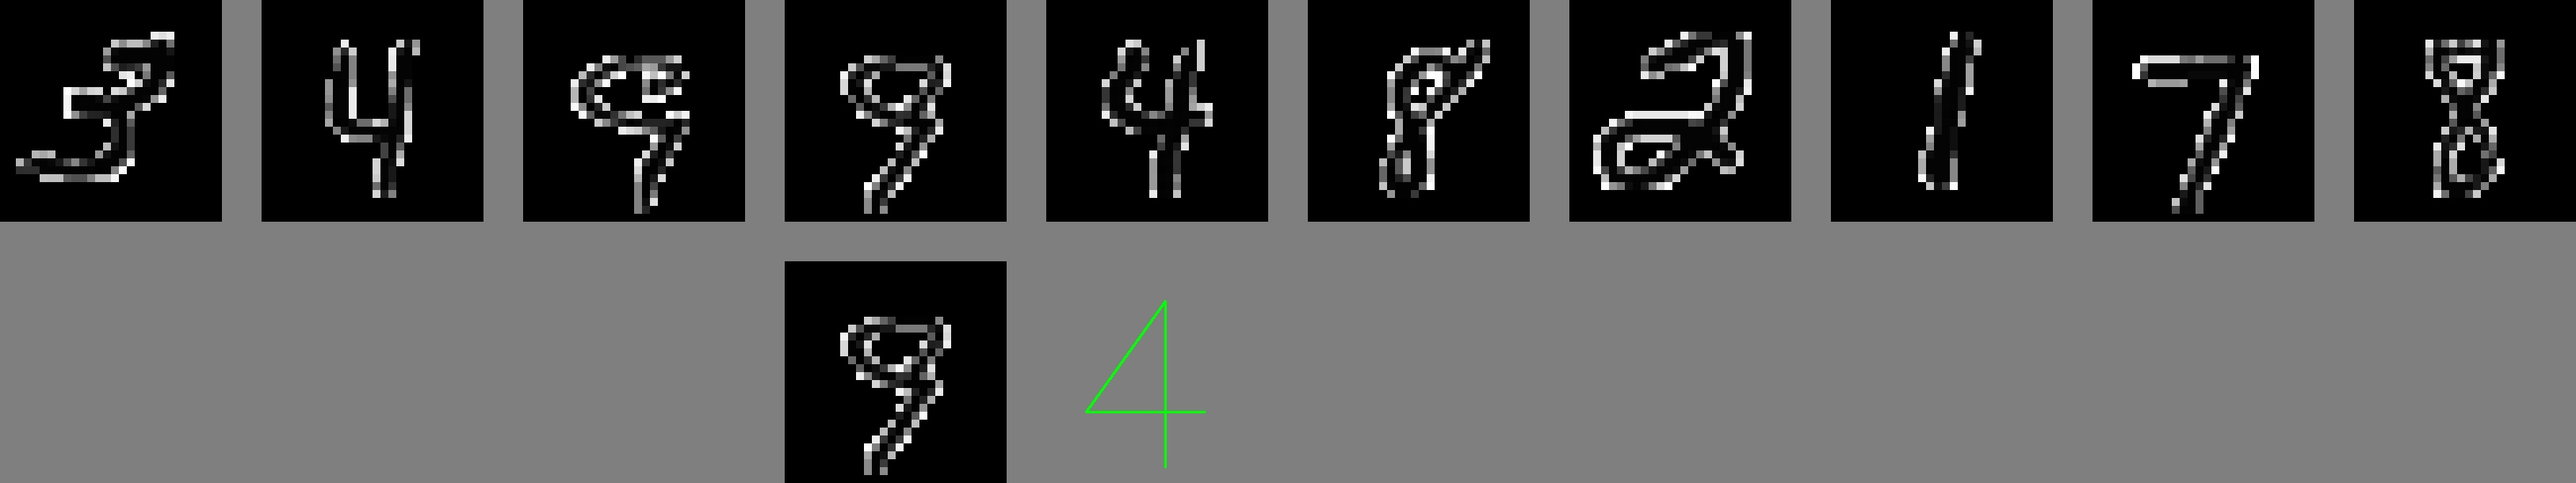
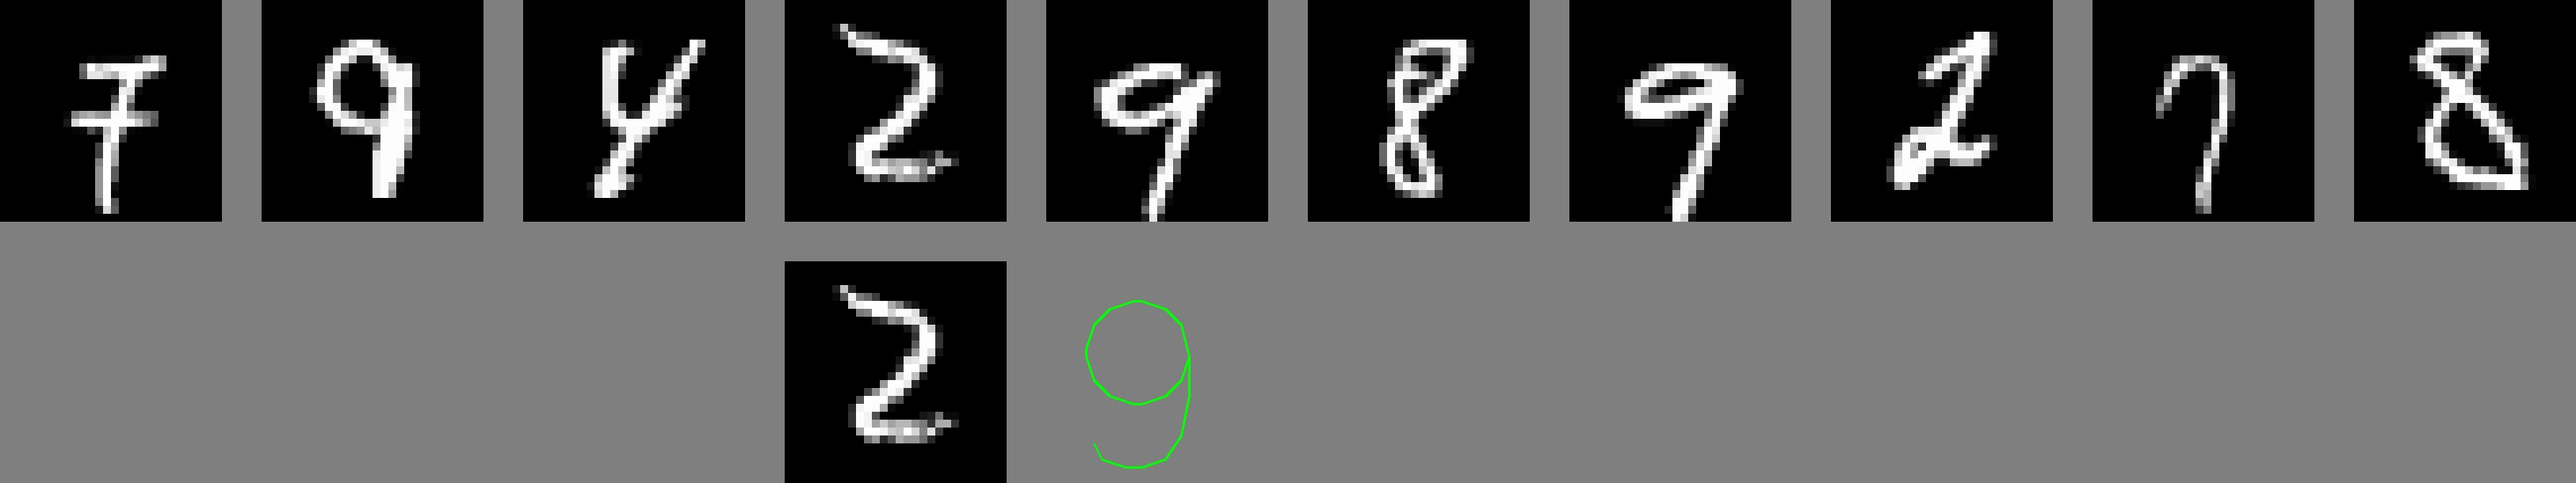
updates mnist visualization and minor changes.

diff --git a/mnist_recall/training_thread.py b/mnist_recall/training_thread.py
@@ -108,13 +108,13 @@ class TrainingThread(object):
       for vis_ind in range(self.batch_size):
           vis_width = 28*num_steps + 5*(num_steps-1)
           vis_height = 28*2 + 5
-          vis_img = np.ones((vis_height,vis_width))*(0.5)
+          vis_img = np.ones((vis_height,vis_width))*(127)
           for step in range(num_steps):
               vis_img[:28, step*(28+5):step*(28+5)+28] = batch_input[step,vis_ind,:,:]
           vis_img[28+5:, chosen_ind*(28+5):chosen_ind*(28+5)+28] = batch_input2[vis_ind,:,:]
           scale_factor = 10
           vis_img_scaled = np.kron(vis_img, np.ones((scale_factor,scale_factor)))
-          vis_img_scaled = (vis_img_scaled*255).astype(np.uint8)
+          vis_img_scaled = vis_img_scaled.astype(np.uint8)
           vis_img_scaled_3chan = np.stack((vis_img_scaled, vis_img_scaled, vis_img_scaled),axis=-1)
           cur_pred = prediction_output[vis_ind,:].argmax(-1)
           font                   = cv2.FONT_HERSHEY_SIMPLEX

diff --git a/mapping_localization/training_thread.py b/mapping_localization/training_thread.py
@@ -325,7 +325,7 @@ class TrainingThread(object):
                )
           loss_output_total = list_output[0]
                    
-          print("Step {}: loss = {}, lr = {}".format(self.global_t,loss_output_total, cur_learning_rate))
+          print("Step {}: loss = {}".format(self.global_t,loss_output_total))
 
           self._record_params(sess, summary_writer, summary_op, loss_input, loss_output_total, self.global_t)
 
